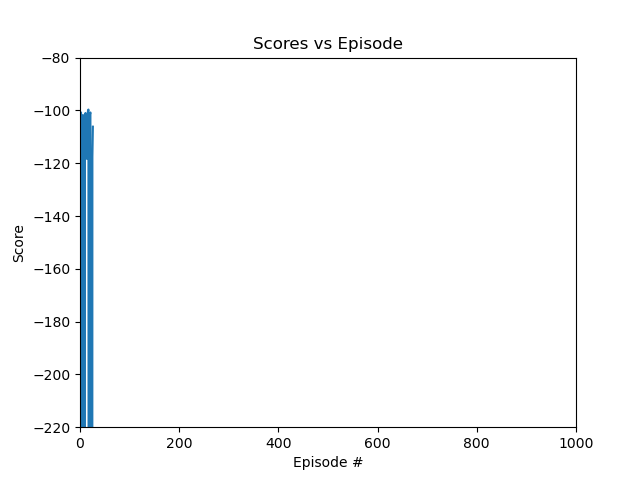
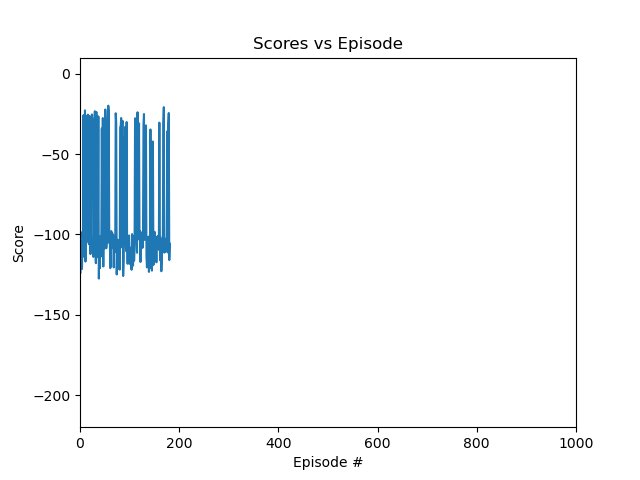
change some details

Changed region(s): [[0.0625, 0.2188, 0.2812, 0.9062], [0.0625, 0.0938, 0.125, 0.1562]]

diff --git a/main.py b/main.py
@@ -4,14 +4,13 @@ import gymnasium as gym
 import math
 from collections import defaultdict, deque
 import matplotlib.pyplot as graph
-
+import os
 ENV = "BipedalWalker-v3"
 RENDER_MODE=str
-
-
 EPISODES = 1000
 GAMMA =  0.99
-ALPHA = 0.01
+ALPHA=0.01
+Load_Q_table=False
 
 
 HIGHSCORE = -200
@@ -32,47 +31,51 @@ HIGHSCORE = -200
 #            (0, 1)]
 
 
-stateBounds=[ (3.14, -3.14), 
-(5.0, -5.0), 
-(5.0, -5.0),
-(5.0, -5.0),
-(3.14, -3.14),
-(5.0, -5.0), 
-(3.14, -3.14), 
-(5.0, -5.0), 
-(5.0, -0.0),
-(3.14, -3.14), 
-(5.0, -5.0), 
-(3.14, -3.14),
-(5.0, -5.0),
-(5.0, -0.0), 
-(1.0, -1.0), 
-(1.0, -1.0),
-(1.0, -1.0), 
-(1.0, -1.0),
-(1.0, -1.0),
-(1.0, -1.0),
-(1.0, -1.0), 
-(1.0, -1.0), 
-(1.0, -1.0), 
-(1.0, -1.0)
- ]
+stateBounds=[
+(-3.14, 3.14),
+(-5.0, 5.0),
+(-5.0, 5.0),
+(-5.0, 5.0),
+(-3.14, 3.14),
+(-5.0, 5.0),
+(-3.14, 3.14),
+(-5.0, 5.0),
+(-0.0, 5.0),
+(-3.14, 3.14),
+(-5.0, 5.0),
+(-3.14, 3.14),
+(-5.0, 5.0),
+(-0.0, 5.0),
+(-1.0, 1.0),
+(-1.0, 1.0),
+(-1.0, 1.0),
+(-1.0, 1.0),
+(-1.0, 1.0),
+(-1.0, 1.0),
+(-1.0, 1.0),
+(-1.0, 1.0),
+(-1.0, 1.0),
+(-1.0, 1.0)
+]
 
 
 
-actionBounds = (-1, 1)
+# actionBounds = (-1, 1)
 
 
 def updateQTable (Qtable, state, action, reward, nextState=None):
-    global ALPHA
     global GAMMA
-
+    global ALPHA
     current = Qtable[state][action]  
     qNext = np.max(Qtable[nextState]) if nextState is not None else 0
     target = reward + (GAMMA * qNext)
     new_value = current + (ALPHA * (target - current))
     return new_value
 
+
+
+
+#entekhab bar asas epsilon ke random bashe ya az ghabliya
 def getNextAction(qTable, epsilon, state):
 
     if random.random() < epsilon:
@@ -80,20 +83,20 @@ def getNextAction(qTable, epsilon, state):
         action = ()
         for i in range (0, 4):
             action += (random.randint(0, 9),)
-
     else:
-
         action = np.unravel_index(np.argmax(qTable[state]), qTable[state].shape)
 
+    
     return action
 
 def discretizeState(state):
+    # print("*************************************************")
     # print(state)
+    # print("#################################################")
     discreteState = []
     for i in range(len(state)):
         index = int((state[i]-stateBounds[i][0])  / (stateBounds[i][1]-stateBounds[i][0])*19)
         discreteState.append(index)
-    
     return tuple(discreteState)
 
 
@@ -105,7 +108,7 @@ def convertNextAction(nextAction):
         nextVal = nextAction[i] / 9 * 2 - 1
 
         action.append(nextVal)
-
+    # print(tuple(action))
     return tuple(action)
 
 def plotEpisode(myGraph, xval, yval, epScore, plotLine, i):
@@ -118,19 +121,27 @@ def plotEpisode(myGraph, xval, yval, epScore, plotLine, i):
     myGraph.savefig("./plot")
 
 
-
+#first function to run
 def runAlgorithmStep(env, i, qTable):
 
     global HIGHSCORE
 
-    env_R=env.reset()[0:14]
+    env_R=env.reset()[0:24]
     env_R=env_R[0]
     state = discretizeState(env_R)
     total_reward=  0
-    epsilon = 1.0 / ( i * .004)
+
+
+    #setting epsilon
+    if(Load_Q_table):
+        epsilon = 0.1
+    else:
+        epsilon = 1.0 / ( i * .004)
+    print("Epsilon: "+ str(epsilon))
+    
     iterate=0
     while True:
-        # iterate+=1
+        iterate+=1
         nextAction = convertNextAction(getNextAction(qTable, epsilon, state))
         nextActionDiscretized = getNextAction(qTable, epsilon, state)
         nextState, reward, done, nn, info = env.step(nextAction)
@@ -138,9 +149,9 @@ def runAlgorithmStep(env, i, qTable):
         total_reward += reward
         qTable[state][nextActionDiscretized] = updateQTable(qTable, state, nextActionDiscretized, reward, nextState)
         state = nextState
-        # if(iterate>500):
-        #     break
         if done:
+            break
+        if(iterate>500):
             break
     print("total_revard= "+str(total_reward))
     if total_reward > HIGHSCORE:
@@ -150,8 +161,17 @@ def runAlgorithmStep(env, i, qTable):
     return total_reward
     
 def main():
-
+    
     global HIGHSCORE
+    
+    load=input("if you want load enter file name else enter no:\n")
+    save_path=input("enter the name you want save file as : \n")
+    if(load=="no"):
+        Load_Q_table=False
+    else:
+        loaded_qtable = np.load(load,allow_pickle=True)
+        Load_Q_table=True
+
     
     visualize = input("Visualize? [y/n]\n")
 
@@ -163,6 +183,8 @@ def main():
     env = gym.make(ENV,render_mode=RENDER_MODE)
 
     qTable = defaultdict( lambda: np.zeros((10, 10, 10, 10)))
+    if(Load_Q_table):
+        qTable.update(loaded_qtable.item())
 
     myGraph = graph.figure()
     xval, yval = [], []
@@ -172,17 +194,26 @@ def main():
     graph.title("Scores vs Episode")
     plotLine, = mySubPlot.plot(xval, yval)
     mySubPlot.set_xlim([0, EPISODES])
-    mySubPlot.set_ylim([-220, -80])
+    mySubPlot.set_ylim([-220, 10])
 
-
+    
     for i in range(1, EPISODES + 1):
 
         epScore = runAlgorithmStep(env, i, qTable)
-        print("Episode finished. Now plotting..")
+        print("Episode "+str(i)+" finished. Now plotting..\n")
         plotEpisode(myGraph, xval, yval, epScore, plotLine, i)
-        print("plot_ends \n ________________________________________________________________")
+        print("--------------------------------------------------------\n")
+
+        #save in every 20 episode
+        # if(i%100==0):
+            # np.save(save_path, np.array(dict(qTable)))
+        
     
     print("All episodes finished. Highest score achieved: " + str(HIGHSCORE))
+    np.save(save_path, np.array(dict(qTable)))
+    # print(qTable)     
+    env
+    
 
   
 main()
